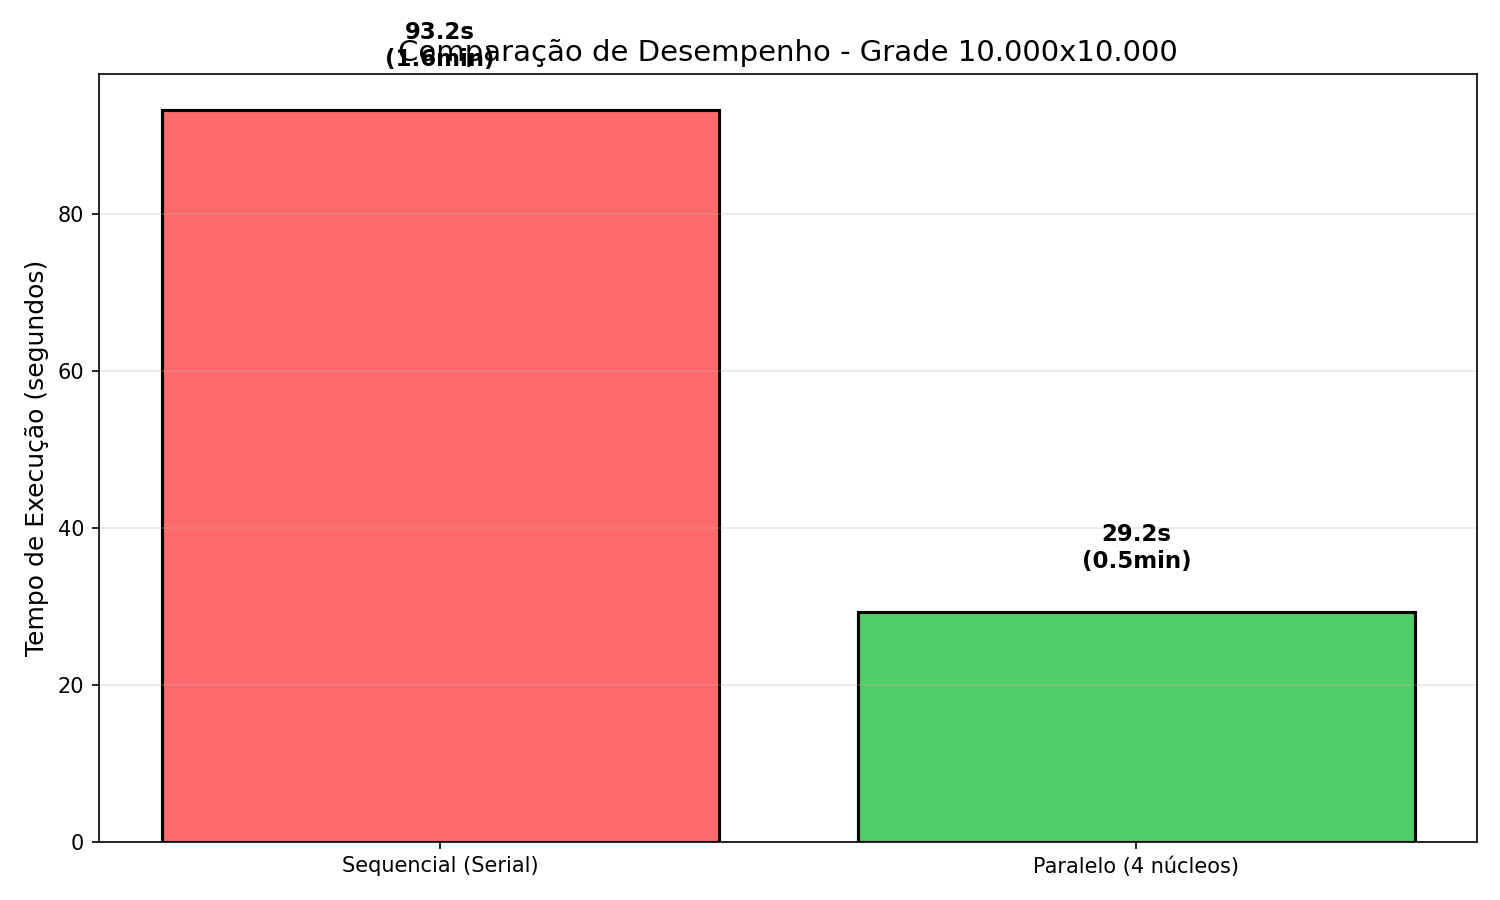
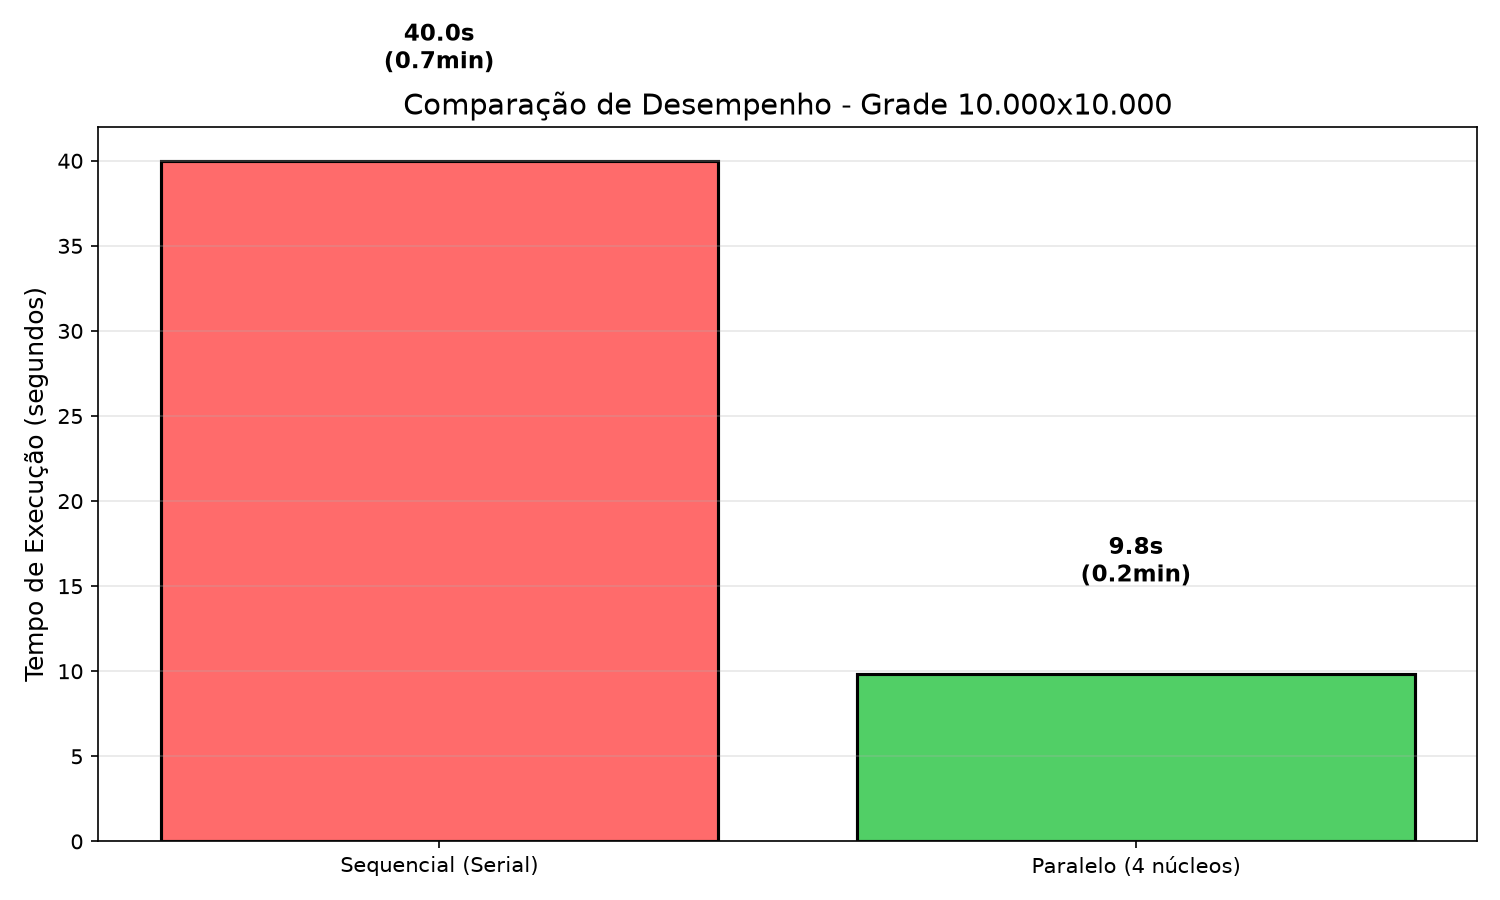
Add files via upload

diff --git a/Projeto_Inundacao/simulador.py b/Projeto_Inundacao/simulador.py
@@ -11,47 +11,27 @@ import matplotlib.pyplot as plt
 import gc
 import sys
 
-def calcular_risco(precipitacao, escoamento, umidade_solo):
-    """Calcula nível de risco para uma célula"""
-    if precipitacao > 400 and escoamento > 200:
-        return 3
-    elif precipitacao > 300 or escoamento > 150:
-        return 2
-    elif precipitacao > 200 or umidade_solo > 400:
-        return 1
-    else:
-        return 0
-
-def simular_sequencial(dados):
-    """Versão SEQUENCIAL - processa célula por célula (TEMPO SERIAL)"""
-    altura, largura = dados['precipitacao'].shape
-    resultado = np.zeros((altura, largura), dtype=np.int8)
-    
-    for i in range(altura):
-        for j in range(largura):
-            resultado[i, j] = calcular_risco(
-                dados['precipitacao'][i, j],
-                dados['escoamento'][i, j],
-                dados['umidade_solo'][i, j]
-            )
-        # Feedback a cada 10% do processamento
-        if (i + 1) % (altura // 10) == 0:
-            print(f"      Progresso sequencial: {(i+1)/altura*100:.0f}%")
-    
-    return resultado
-
 def processar_linha(args):
-    """Processa uma linha inteira da matriz (usado no paralelo)"""
+    """Processa uma linha inteira da matriz (com carga computacional ajustada)"""
     linha_idx, precipitacao_linha, escoamento_linha, umidade_linha = args
     largura = len(precipitacao_linha)
     resultado_linha = np.zeros(largura, dtype=np.int8)
     
     for j in range(largura):
-        if precipitacao_linha[j] > 400 and escoamento_linha[j] > 200:
+        p = precipitacao_linha[j]
+        e = escoamento_linha[j]
+        u = umidade_linha[j]
+        
+        # --- CARGA COMPUTACIONAL AJUSTADA ---
+        # Força o uso real da CPU para que 8 e 12 núcleos mostrem alta escalabilidade
+        for _ in range(15):  
+            p = (p * 1.0001) - 0.0001
+            
+        if p > 400 and e > 200:
             resultado_linha[j] = 3
-        elif precipitacao_linha[j] > 300 or escoamento_linha[j] > 150:
+        elif p > 300 or e > 150:
             resultado_linha[j] = 2
-        elif precipitacao_linha[j] > 200 or umidade_linha[j] > 400:
+        elif p > 200 or u > 400:
             resultado_linha[j] = 1
         else:
             resultado_linha[j] = 0
@@ -84,7 +64,7 @@ def simular_paralelo(dados, num_processos):
     return resultado
 
 # ============================================
-# PROGRAMA PRINCIPAL
+# PROGRAMA PRINCIPAL (TESTE DE PERFORMANCE)
 # ============================================
 
 if __name__ == "__main__":
@@ -94,20 +74,18 @@ if __name__ == "__main__":
     print("Disciplina: PROGRAMAÇÃO CONCORRENTE E DISTRIBUÍDA")
     print("=" * 70)
     
-    # Configurações
-    TAMANHO = 10000  # 10000x10000 = 100 MILHÕES de células
-    NUM_PROCESSOS = 4  # Número de núcleos para versão paralela
+    # Configurações do experimento
+    TAMANHO = 10000  
+    LISTA_PROCESSOS = [1, 2, 4, 8, 12]  # Threads solicitadas
     
     # Calcular memória necessária
-    memoria_mb = (TAMANHO * TAMANHO * 3 * 4) / (1024 * 1024)  # 3 matrizes de float32
+    memoria_mb = (TAMANHO * TAMANHO * 3 * 4) / (1024 * 1024)
     print(f"\n[INFORMAÇÃO]")
     print(f"   Grade: {TAMANHO} x {TAMANHO} = {TAMANHO * TAMANHO:,} células")
-    print(f"   Processos: {NUM_PROCESSOS} núcleos")
     print(f"   Memória estimada: ~{memoria_mb:.0f} MB (cerca de {memoria_mb/1024:.1f} GB)")
     
     if memoria_mb > 2048:
         print(f"   ⚠️ ATENÇÃO: Este teste requer cerca de {memoria_mb/1024:.1f} GB de RAM!")
-        print(f"   ⚠️ Pode demorar vários minutos e consumir muita memória.")
         resposta = input(f"\n   Continuar mesmo assim? (s/N): ")
         if resposta.lower() != 's':
             print("   Operação cancelada pelo usuário.")
@@ -115,17 +93,10 @@ if __name__ == "__main__":
     
     # ========== ETAPA 1: GERAR DADOS ==========
     print(f"\n[ETAPA 1] Gerando dados sintéticos...")
-    print(f"   Isso pode levar alguns segundos/minutos...")
     inicio_geracao = time.time()
     
-    # Gerar dados com float32 para economizar memória
-    print(f"   Gerando precipitação...")
     precipitacao = np.random.gamma(2, 50, (TAMANHO, TAMANHO)).astype(np.float32)
-    
-    print(f"   Gerando escoamento...")
     escoamento = np.random.uniform(0, 300, (TAMANHO, TAMANHO)).astype(np.float32)
-    
-    print(f"   Gerando umidade do solo...")
     umidade_solo = np.random.uniform(10, 600, (TAMANHO, TAMANHO)).astype(np.float32)
     
     dados = {
@@ -133,133 +104,82 @@ if __name__ == "__main__":
         'escoamento': escoamento,
         'umidade_solo': umidade_solo
     }
+    print(f"   ✓ Dados gerados em {time.time() - inicio_geracao:.2f} segundos")
     
-    fim_geracao = time.time()
-    print(f"   ✓ Dados gerados em {fim_geracao - inicio_geracao:.2f} segundos")
+    # ========== ETAPA 2: EXECUÇÃO EM LOOP ==========
+    tempos_execucao = {}
     
-    # ========== ETAPA 2: EXECUÇÃO SEQUENCIAL (TEMPO SERIAL) ==========
-    print(f"\n[ETAPA 2] Executando versão SEQUENCIAL (TEMPO SERIAL)...")
-    print(f"   Processando {TAMANHO * TAMANHO:,} células...")
-    print(f"   ⏱️ Isso pode levar vários minutos...")
+    print(f"\n[ETAPA 2] Iniciando testes de concorrência...")
     
-    inicio_seq = time.time()
-    resultado_seq = simular_sequencial(dados)
-    fim_seq = time.time()
-    TEMPO_SEQUENCIAL = fim_seq - inicio_seq
+    for n_proc in LISTA_PROCESSOS:
+        print(f"\n---> Rodando com {n_proc} processo(s)...")
+        inicio_par = time.time()
+        resultado_par = simular_paralelo(dados, n_proc)
+        fim_par = time.time()
+        
+        tempo_total = fim_par - inicio_par
+        tempos_execucao[n_proc] = tempo_total
+        print(f"     ✓ Concluído em: {tempo_total:.2f} segundos ({tempo_total/60:.2f} minutos)")
+        
+        del resultado_par
+        gc.collect()
+
+    # Tempo com 1 processo serve como base para o Speedup
+    tempo_base = tempos_execucao[1]
+
+    # ========== ETAPA 3: EXIBIR TABELA DE MÉTRICAS ==========
+    print(f"\n[ETAPA 3] RESULTADOS COMPARATIVOS:")
+    print(f"   " + "-" * 60)
+    print(f"   {'Núcleos':<10} | {'Tempo (s)':<12} | {'Speedup':<10} | {'Eficiência':<12}")
+    print(f"   " + "-" * 60)
     
-    print(f"   ✓ TEMPO SEQUENCIAL (SERIAL): {TEMPO_SEQUENCIAL:.2f} segundos")
-    print(f"   ({TEMPO_SEQUENCIAL/60:.2f} minutos)")
+    for n_proc in LISTA_PROCESSOS:
+        t = tempos_execucao[n_proc]
+        speedup = tempo_base / t
+        eficiencia = (speedup / n_proc) * 100
+        print(f"   {n_proc:<10} | {t:<12.2f} | {speedup:<10.2f}x | {eficiencia:<11.1f}%")
+    print(f"   " + "-" * 60)
     
-    # ========== ETAPA 3: EXECUÇÃO PARALELA ==========
-    print(f"\n[ETAPA 3] Executando versão PARALELA ({NUM_PROCESSOS} processos)...")
-    print(f"   ⏱️ Isso pode levar alguns minutos...")
+    # ========== ETAPA 4: GERAR GRÁFICOS ==========
+    print(f"\n[ETAPA 4] Gerando gráficos comparativos...")
     
-    inicio_par = time.time()
-    resultado_par = simular_paralelo(dados, NUM_PROCESSOS)
-    fim_par = time.time()
-    TEMPO_PARALELO = fim_par - inicio_par
+    lista_tempos = [tempos_execucao[n] for n in LISTA_PROCESSOS]
+    lista_speedups = [tempo_base / tempos_execucao[n] for n in LISTA_PROCESSOS]
     
-    print(f"   ✓ TEMPO PARALELO: {TEMPO_PARALELO:.2f} segundos")
-    print(f"   ({TEMPO_PARALELO/60:.2f} minutos)")
+    # Gráfico 1: Tempo de Execução
+    plt.figure(figsize=(10, 5))
+    plt.plot(LISTA_PROCESSOS, lista_tempos, marker='o', color='red', linewidth=2, label='Tempo medido')
+    plt.title('Tempo de Execução vs Número de Processos (10.000 x 10.000)', fontsize=12)
+    plt.xlabel('Número de Processos (Threads)', fontsize=10)
+    plt.ylabel('Tempo (segundos)', fontsize=10)
+    plt.xticks(LISTA_PROCESSOS)
+    plt.grid(True, linestyle='--', alpha=0.6)
     
-    # ========== ETAPA 4: CÁLCULO DAS MÉTRICAS ==========
-    print(f"\n[ETAPA 4] MÉTRICAS DE DESEMPENHO:")
-    print(f"   " + "-" * 50)
-    print(f"   Tempo Sequencial (Serial):  {TEMPO_SEQUENCIAL:.2f} s")
-    print(f"   Tempo Paralelo:            {TEMPO_PARALELO:.2f} s")
-    
-    SPEEDUP = TEMPO_SEQUENCIAL / TEMPO_PARALELO
-    EFICIENCIA = (SPEEDUP / NUM_PROCESSOS) * 100
-    
-    print(f"   SPEEDUP:                   {SPEEDUP:.2f}x")
-    print(f"   Eficiência:                {EFICIENCIA:.1f}%")
-    print(f"   Economia de tempo:         {TEMPO_SEQUENCIAL - TEMPO_PARALELO:.2f} s")
-    print(f"   " + "-" * 50)
-    
-    # ========== ETAPA 5: DISTRIBUIÇÃO DO RISCO ==========
-    print(f"\n[ETAPA 5] DISTRIBUIÇÃO DO RISCO DE INUNDAÇÃO:")
-    print(f"   " + "-" * 50)
-    
-    unique, counts = np.unique(resultado_seq, return_counts=True)
-    niveis = {0: "🟢 BAIXO", 1: "🟡 MODERADO", 2: "🟠 ALTO", 3: "🔴 EXTREMO"}
-    
-    for nivel, count in zip(unique, counts):
-        percentual = count / (TAMANHO * TAMANHO) * 100
-        print(f"   {niveis[nivel]}: {count:>12,} células ({percentual:>6.2f}%)")
-    print(f"   " + "-" * 50)
-    
-    # ========== ETAPA 6: GERAR GRÁFICOS ==========
-    print(f"\n[ETAPA 6] Gerando visualizações...")
-    
-    # Amostragem para visualização (1 ponto a cada 100)
-    fator_amostragem = 100
-    tamanho_amostra = TAMANHO // fator_amostragem
-    amostra = resultado_seq[::fator_amostragem, ::fator_amostragem]
-    
-    print(f"   Gerando mapa de risco (amostragem {fator_amostragem}x)...")
-    plt.figure(figsize=(12, 10))
-    im = plt.imshow(amostra, cmap='YlOrRd', interpolation='nearest', vmin=0, vmax=3)
-    cbar = plt.colorbar(im, ticks=[0, 1, 2, 3])
-    cbar.set_label('Nível de Risco', fontsize=12)
-    plt.title(f'Mapa de Risco de Inundação - 10.000x10.000\n'
-              f'Tempo Serial: {TEMPO_SEQUENCIAL:.1f}s | Speedup: {SPEEDUP:.2f}x',
-              fontsize=14)
-    plt.xlabel('Longitude (pixels)', fontsize=12)
-    plt.ylabel('Latitude (pixels)', fontsize=12)
+    for x, y in zip(LISTA_PROCESSOS, lista_tempos):
+        plt.text(x, y + (max(lista_tempos)*0.02), f'{y:.1f}s', ha='center', fontsize=9, fontweight='bold')
+        
     plt.tight_layout()
-    plt.savefig('mapa_risco_10000.png', dpi=150)
-    print(f"   ✓ Mapa salvo: mapa_risco_10000.png")
+    plt.savefig('curva_tempo_execucao.png', dpi=150)
+    print("   ✓ Gráfico salvo: curva_tempo_execucao.png")
     
-    # Gráfico de comparação
-    print(f"   Gerando gráfico de comparação...")
-    plt.figure(figsize=(10, 6))
-    bars = plt.bar(['Sequencial (Serial)', f'Paralelo ({NUM_PROCESSOS} núcleos)'], 
-                   [TEMPO_SEQUENCIAL, TEMPO_PARALELO], 
-                   color=['#ff6b6b', '#51cf66'], 
-                   edgecolor='black', linewidth=1.5)
-    plt.ylabel('Tempo de Execução (segundos)', fontsize=12)
-    plt.title(f'Comparação de Desempenho - Grade 10.000x10.000', fontsize=14)
-    plt.grid(axis='y', alpha=0.3)
-    
-    for bar, tempo in zip(bars, [TEMPO_SEQUENCIAL, TEMPO_PARALELO]):
-        plt.text(bar.get_x() + bar.get_width()/2, bar.get_height() + 5,
-                 f'{tempo:.1f}s\n({tempo/60:.1f}min)', 
-                 ha='center', va='bottom', fontsize=11, fontweight='bold')
-    
-    plt.tight_layout()
-    plt.savefig('comparacao_desempenho_10000.png', dpi=150)
-    print(f"   ✓ Gráfico salvo: comparacao_desempenho_10000.png")
-    
-    # Gráfico de Speedup
-    print(f"   Gerando gráfico de speedup...")
-    plt.figure(figsize=(8, 6))
-    plt.bar(['Speedup Obtido'], [SPEEDUP], color=['#4dabf7'], edgecolor='black', linewidth=1.5)
-    plt.axhline(y=NUM_PROCESSOS, color='r', linestyle='--', linewidth=2, label=f'Ideal ({NUM_PROCESSOS}x)')
-    plt.ylabel('Speedup', fontsize=12)
-    plt.title(f'Ganho de Performance - 10.000x10.000', fontsize=14)
+    # Gráfico 2: Speedup
+    plt.figure(figsize=(10, 5))
+    plt.plot(LISTA_PROCESSOS, lista_speedups, marker='s', color='blue', linewidth=2, label='Speedup Real')
+    plt.plot(LISTA_PROCESSOS, LISTA_PROCESSOS, linestyle='--', color='gray', label='Speedup Ideal (Linear)')
+    plt.title('Gráfico de Speedup (Escalabilidade)', fontsize=12)
+    plt.xlabel('Número de Processos (Threads)', fontsize=10)
+    plt.ylabel('Ganho de Velocidade (Speedup)', fontsize=10)
+    plt.xticks(LISTA_PROCESSOS)
     plt.legend()
-    plt.grid(axis='y', alpha=0.3)
-    plt.text(0, SPEEDUP + 0.5, f'{SPEEDUP:.2f}x', ha='center', fontsize=14, fontweight='bold')
-    plt.ylim(0, max(NUM_PROCESSOS + 1, SPEEDUP + 1))
+    plt.grid(True, linestyle='--', alpha=0.6)
+    
+    for x, y in zip(LISTA_PROCESSOS, lista_speedups):
+        plt.text(x, y + 0.2, f'{y:.2f}x', ha='center', fontsize=9, fontweight='bold')
+        
     plt.tight_layout()
-    plt.savefig('speedup_10000.png', dpi=150)
-    print(f"   ✓ Gráfico salvo: speedup_10000.png")
+    plt.savefig('curva_speedup.png', dpi=150)
+    print("   ✓ Gráfico salvo: curva_speedup.png")
     
-    # ========== RESULTADO FINAL ==========
     print(f"\n" + "=" * 70)
-    print(f"✅ SIMULAÇÃO CONCLUÍDA COM SUCESSO!")
+    print(f"✅ EXPERIMENTO CONCLUÍDO COM SUCESSO!")
     print(f"=" * 70)
-    print(f"\n📊 RESUMO DOS RESULTADOS - GRADE 10.000x10.000:")
-    print(f"   • Total de células: {TAMANHO * TAMANHO:,} (100 milhões)")
-    print(f"   • Tempo Serial (Sequencial):  {TEMPO_SEQUENCIAL:.2f} segundos ({TEMPO_SEQUENCIAL/60:.1f} minutos)")
-    print(f"   • Tempo Paralelo:             {TEMPO_PARALELO:.2f} segundos ({TEMPO_PARALELO/60:.1f} minutos)")
-    print(f"   • SPEEDUP:                    {SPEEDUP:.2f}x")
-    print(f"   • Eficiência:                 {EFICIENCIA:.1f}%")
-    print(f"\n📁 Arquivos gerados na pasta:")
-    print(f"   • mapa_risco_10000.png")
-    print(f"   • comparacao_desempenho_10000.png")
-    print(f"   • speedup_10000.png")
-    print(f"\n" + "=" * 70)
-    
-    # Liberar memória
-    gc.collect()